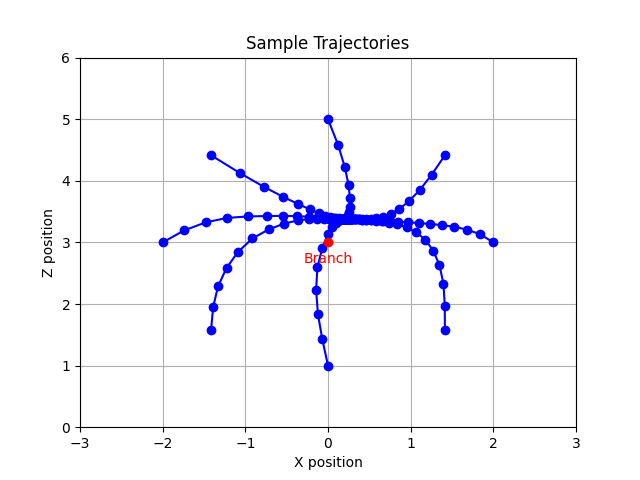
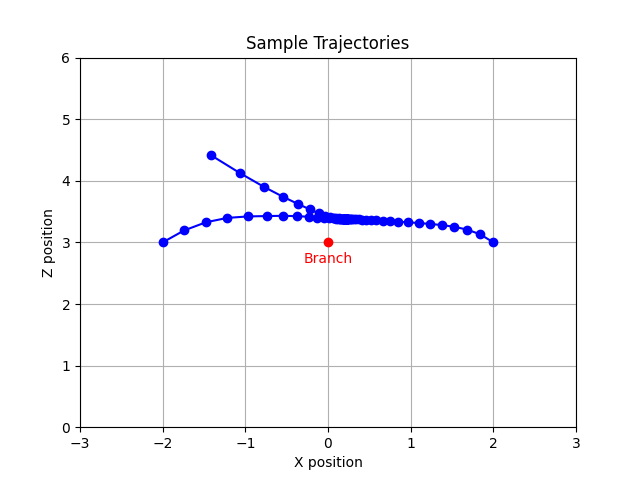
add stuff

diff --git a/04_Repository/models/sample_trajectories_from_model.py b/04_Repository/models/sample_trajectories_from_model.py
@@ -25,8 +25,8 @@ class SampleTrajEnv(gym.Wrapper):
 
 
 def sample_trajectories(dir, show=True, human=False):
-    plotting_degrees = [0, 45, 90, 135, 180, 225, 270, 315]
-    # plotting_degrees = [135, 180, 0]
+    # plotting_degrees = [0, 45, 90, 135, 180, 225, 270, 315]
+    plotting_degrees = [135, 180, 0]
     
     model = SAC.load(f"{dir}/model.zip")
     render_mode = "console" if not human else "human"

diff --git a/02_Progress_reports/24_05_01/weekly_update.md b/02_Progress_reports/24_05_01/weekly_update.md
@@ -1,0 +1,58 @@
+---
+marp: true
+theme: custom-dracula
+paginate: true
+_paginate: false # or use `_paginate: skip`
+---
+
+# Agile Trajectory Generation for Tensile Perching with Aerial Robots
+
+---
+# Progress Update
+- Demonstrations
+  - Meeting with Atar on Friday to discuss demonstrations
+
+---
+# From Previously
+- Further Statistics on the training
+  - Normalisation issue in the training data - where I hadn't applied the same normalisation to the demonstrations as I had in training.
+- Reward Function
+- Smoothness
+  - Already a smoothness term which can be seen in easy tasks.
+  - Introduce Prioritised Experience Replay to help combat the harder learning portions.
+  - Sampling learnable parameter.
+- Move onto next stage:
+  - Wrapping
+
+
+---
+# Reward
+- Discussed last time about the level of tuning of reward function and whether that's what the right direction.
+
+- Massively simplified the reward function
+\+ Distance to branch
+\-  Hitting branch
+\+ Wrapping
+
+- Outcome
+  - Without demonstrations - taking roughly 4-5x as long to reach a "good" point in training.
+  - With demonstrations - 1.2-1.3x number of steps.
+
+---
+# Wrapping Phase
+- Currently achieving mixed results. From one direction, the wrapping seems to work. But from the other it struggles.
+
+- Demo
+
+
+---
+![h:570](./sample_trajectories.png)
+
+
+---
+# Next Steps
+- Augment State Space with "directional" knowlege
+  - Starting position in state space
+  - Previous n states
+
+- Hanging Phase
